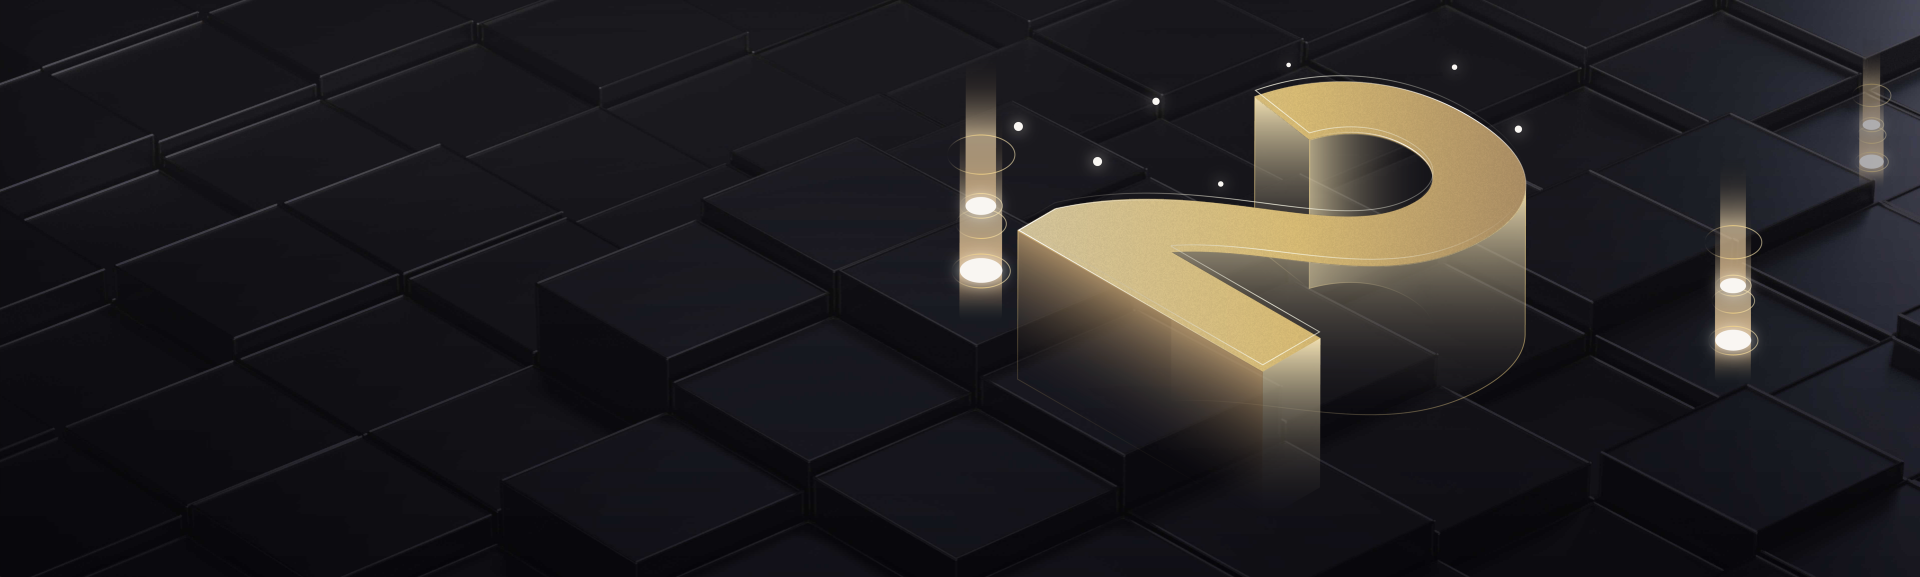
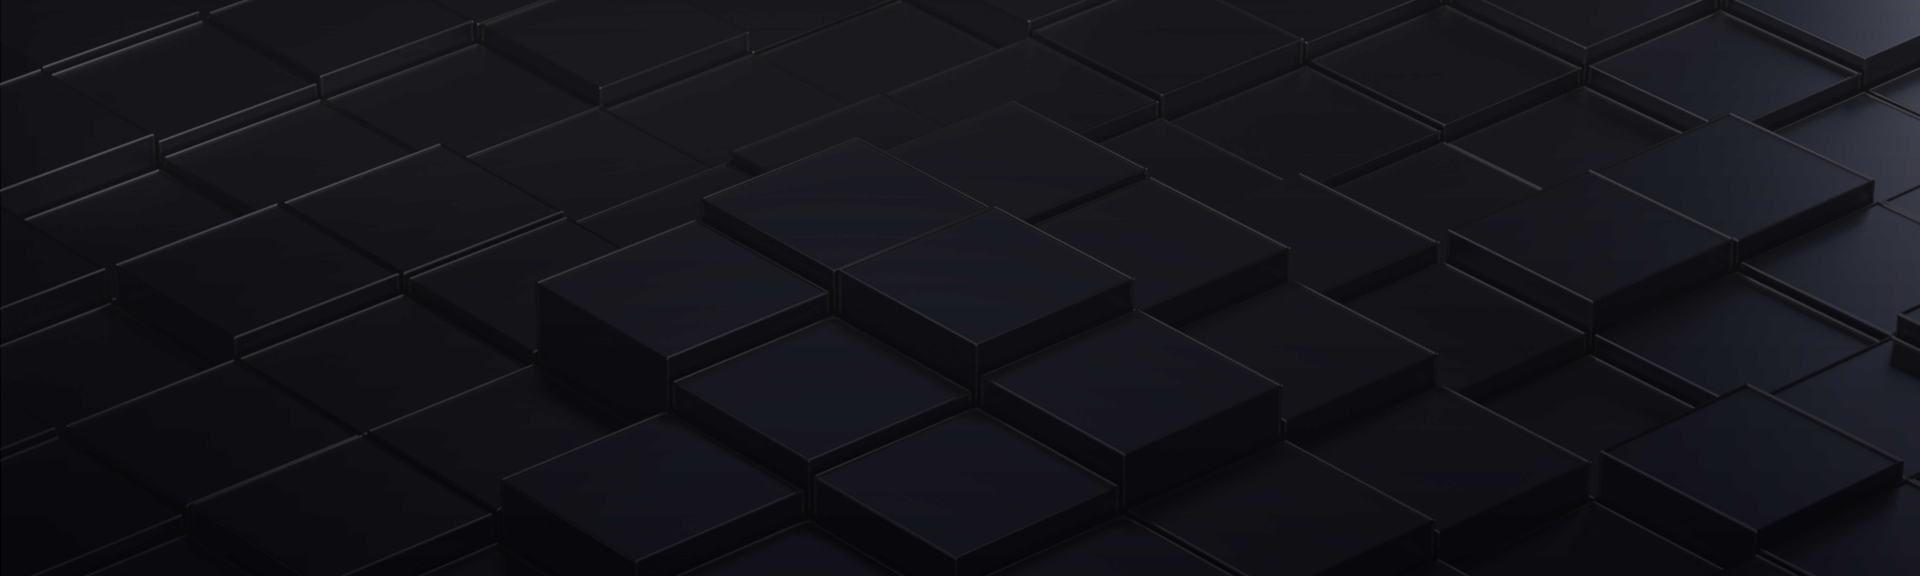
图片替换正2

Changed region(s): [[0.5, 0.125, 0.8125, 0.8125], [0.875, 0.3125, 0.9375, 0.6562], [0.9688, 0.0938, 1.0, 0.3125]]

diff --git a/src/components/App/active/Anniversary.vue b/src/components/App/active/Anniversary.vue
@@ -34,6 +34,9 @@
               alt="企业上云突破5万，回馈老用户"
             />
           </div>
+          <div class="center-banner">
+            <img src="../../../assets/img/active/anniversary/aa-ac-banner.png" alt="banner">
+          </div>
           <div class="menu">
             <div class="content">
               <a v-for="(item,index) in bannerNavList" :key="index" @click="goAnchor('#'+item.href)">
@@ -1733,9 +1736,17 @@ aside {
   }
 }
 .banner {
-  height: 577px;
+  height: 576px;
   background: url(../../../assets/img/active/anniversary/anniversary-banner.png)
     center no-repeat;
+  .container {
+    position: relative;
+  }
+  .center-banner {
+    position: absolute;
+    top: 30px;
+    right: -230px;
+  }
   .text {
     padding-top: 140px;
     img:first-of-type {

diff --git a/src/components/App/ActiveCenter.vue b/src/components/App/ActiveCenter.vue
@@ -23,7 +23,7 @@
                 <div class="img">
                   <img
                     src="../../assets/img/active/anniversary/aa-ac-banner.png"
-                    style="height:360px;margin-top:40px;margin-left:100px;"
+                    style="height:360px;margin-top:30px;margin-left:100px;"
                   />
                 </div>
               </div>
